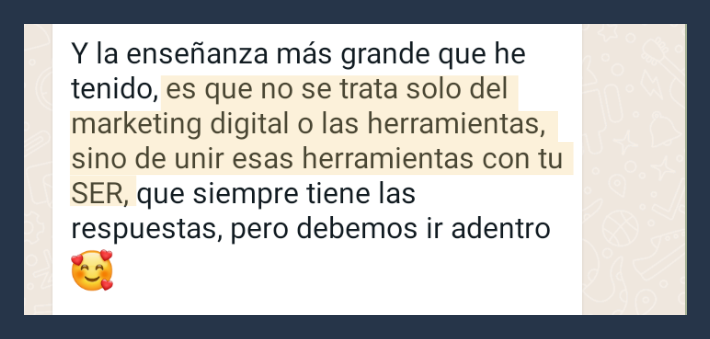
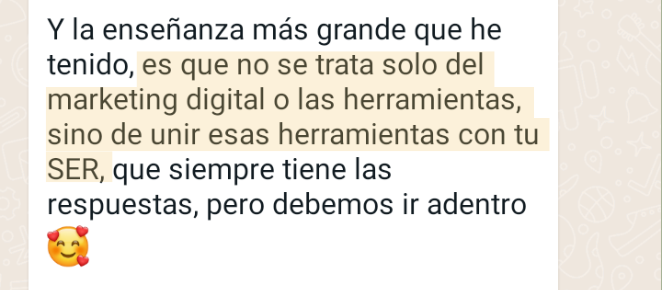
Ajustes de copy y diseño tras revisión de Mimi
Nuevo subtítulo del hero, bloque de dolor reescrito con rombos,
bullets de la promesa reestructurados, bios de Mimi y Ale ajustadas,
reorganización de testimonios entre las dos secciones, recorte del
pantallazo SER y frase de urgencia antes del CTA de la promesa.

diff --git a/index.html b/index.html
@@ -415,7 +415,7 @@
     <div class="hero-mark"><img src="imagens/icono.png" alt="Mujer Alquímica Digital"></div>
     <div class="hero-badge"><span class="pulse"></span> Masterclass en vivo · Gratis</div>
     <h1 class="reveal">Cómo dar <em>el primer paso en redes sociales</em> para mostrar lo que ya sabes hacer, sin esperar a sentirte lista</h1>
-    <p class="hero-sub reveal">Masterclass en vivo con Mimi y Ale <strong>para mujeres que tienen un negocio de bienestar y llevan meses sin mostrarlo</strong>. Por miedo a exponerse, o por no saber por dónde empezar.</p>
+    <p class="hero-sub reveal">Masterclass <strong>para mujeres con negocios de bienestar</strong> que llevan tiempo postergando la presentación de su servicio, ya sea por miedo a exponerse o por no saber por dónde empezar.</p>
 
     <form class="form-wrap reveal" id="form-hero" novalidate>
       <p class="form-wrap__title">Regístrate, es gratis</p>
@@ -457,9 +457,10 @@
 ═══════════════════════════════════════ -->
 <section id="pas">
   <div class="container-narrow">
-    <p class="reveal"><strong style="color:#fff;">Tienes algo que ofrecer al mundo y lo sabes.</strong> Pero cada vez que piensas en mostrarlo en redes, algo te frena.</p>
-    <p class="reveal"><strong style="color:#fff;">No sabes por dónde empezar.</strong> O sientes que primero necesitas la edición perfecta, el guion perfecto, la versión de ti que todavía no llegó.</p>
-    <p class="reveal">Mientras tanto el tiempo pasa y ese conocimiento sigue guardado, sin llegar a nadie.</p>
+    <p class="reveal"><span class="diamond" style="margin-right:.6rem;">◆</span>Abres Instagram, te quedas mirando la pantalla en blanco, y lo cierras sin publicar nada.</p>
+    <p class="reveal"><span class="diamond" style="margin-right:.6rem;">◆</span>Grabas el video, lo ves, lo borras. Y así llevas semanas.</p>
+    <p class="reveal"><span class="diamond" style="margin-right:.6rem;">◆</span>Tienes el caption escrito, el dedo sobre publicar, y algo en el cuerpo dice no todavía.</p>
+    <p class="reveal"><span class="diamond" style="margin-right:.6rem;">◆</span>Cada vez que piensas en aparecer en cámara, algo se aprieta adentro y lo dejas para mañana.</p>
     <p class="reveal" style="color:#fff;">En esta clase en vivo vamos a encontrar qué te está frenando de verdad.</p>
     <p class="reveal"><span style="color: var(--oro-lc);">Vas a salir con el primer paso concreto para</span> <strong style="color:#fff;">empezar a mostrarte en redes sociales sin esperar estar lista</strong>.</p>
   </div>
@@ -475,25 +476,18 @@
       <h2>Lo que viven las mujeres que trabajan con nosotras</h2>
     </div>
     <div class="testi-grid">
-      <article class="testi-card testi-card--quote reveal" aria-label="Testimonio de Sandra">
-        <div class="testi-person">
-          <div class="testi-avatar"><img src="Testimonios/sandra.png" alt="Sandra"></div>
-          <div>
-            <p class="testi-name">Sandra</p>
-            <span class="testi-role">Proceso Mujer Alquímica Digital</span>
-          </div>
-        </div>
-        <p>"Sostenía una imagen espiritual que no me pertenecía, desde el ego, paralizada, agobiada. Hoy entiendo que ser espiritual es habitar el cuerpo. Vi mis bloqueos con el dinero, trabajé mi energía femenina, y cerré high tickets por encima de lo que imaginaba. Me mudé frente al mar."</p>
+      <article class="testi-card reveal" aria-label="Testimonio de clienta">
+        <img src="Testimonios/testi-4-ale.png" alt="Testimonio: no se trata solo del marketing digital o las herramientas, sino de unir esas herramientas con tu ser." loading="lazy">
       </article>
-      <article class="testi-card testi-card--quote reveal" aria-label="Testimonio de Alejandra">
+      <article class="testi-card testi-card--quote reveal" aria-label="Testimonio de Luisa">
         <div class="testi-person">
-          <div class="testi-avatar"><img src="Testimonios/alejandra.png" alt="Alejandra"></div>
+          <div class="testi-avatar"><img src="Testimonios/Luisa.jpeg" alt="Luisa"></div>
           <div>
-            <p class="testi-name">Alejandra</p>
-            <span class="testi-role">Proceso Mujer Alquímica Digital</span>
+            <p class="testi-name">Luisa</p>
+            <span class="testi-role">Masterclass anterior</span>
           </div>
         </div>
-        <p>"Usaba herramientas ancestrales desde mi dualidad, no desde mi verdad. Quería brillar en la estrella de otra. Acepté mi propia vasija. Integré mi parte mental con mi espiritualidad. Recuperé mi libertad creativa, y empecé a seguirme a mí misma."</p>
+        <p>"Esto es una clase maravillosa, justo porque siempre tenemos la información por separado, y es difícil avanzar así. Una clase muy completa, justo desde el sentir."</p>
       </article>
     </div>
   </div>
@@ -509,18 +503,19 @@
     <div class="promesa-list">
       <div class="promesa-item">
         <span class="check">✓</span>
-        <p>Vas a identificar qué creencia o miedo específico te está frenando, para dejar de gastar energía en arreglar lo que no es el problema real.</p>
+        <p><strong>Vas a identificar qué es exactamente lo que te frena.</strong><br>No "el miedo a exponerte" en general. El bloqueo específico tuyo, el que aparece cuando abres la app y te quedas paralizada.</p>
       </div>
       <div class="promesa-item">
         <span class="check">✓</span>
-        <p>Vas a salir con un mapa de tus primeros pasos, hecho a tu manera. No una fórmula genérica que no se siente tuya.</p>
+        <p><strong>Vas a salir con tu primer paso concreto.</strong><br>No una lista de tareas genérica. Una acción real, tuya, que puedas hacer esta semana sin necesitar más preparación.</p>
       </div>
       <div class="promesa-item">
         <span class="check">✓</span>
-        <p>Vas a soltar la exigencia de la versión perfecta. Lo que tienes hoy ya alcanza para empezar.</p>
+        <p><strong>Vas a entender que lo que tienes hoy ya es suficiente para empezar.</strong><br>No cuando tengas mejor cámara, mejor edición o más seguridad. Con lo que eres y tienes ahora mismo.</p>
       </div>
     </div>
 
+    <p style="font-weight: 700; font-size: 1.05rem; color: var(--oro-lc); margin-bottom: 1.25rem;">Es gratis y en vivo. Pero los cupos son limitados. Separa el tuyo hoy.</p>
     <a href="#hero" class="btn">Quiero entrar a la clase</a>
     <div class="event-meta">
       <span><span class="diamond">◆</span> Miércoles 19 de agosto</span>
@@ -545,19 +540,6 @@
       <article class="testi-card reveal" aria-label="Testimonio de clienta">
         <img src="Testimonios/testi-6-ale.png" alt="Testimonio: las sesiones de claridad con Alejandra le permitieron abrir su mente al uso de la tecnología a favor de su servicio." loading="lazy">
       </article>
-      <article class="testi-card reveal" aria-label="Testimonio de clienta">
-        <img src="Testimonios/testi-4-ale.png" alt="Testimonio: no se trata solo del marketing digital o las herramientas, sino de unir esas herramientas con tu ser." loading="lazy">
-      </article>
-      <article class="testi-card testi-card--quote reveal" aria-label="Testimonio de Luisa">
-        <div class="testi-person">
-          <div class="testi-avatar"><img src="Testimonios/Luisa.jpeg" alt="Luisa"></div>
-          <div>
-            <p class="testi-name">Luisa</p>
-            <span class="testi-role">Masterclass anterior</span>
-          </div>
-        </div>
-        <p>"Esto es una clase maravillosa, justo porque siempre tenemos la información por separado, y es difícil avanzar así. Una clase muy completa, justo desde el sentir."</p>
-      </article>
     </div>
   </div>
 </section>
@@ -575,12 +557,12 @@
       <div class="somos-card reveal">
         <div class="somos-photo"><img src="imagens/mimi-frente.png" alt="Mimi, terapeuta somática y facilitadora de Mujer Alquímica Digital"></div>
         <h3 class="michelia">Mimi</h3>
-        <p>Terapeuta especializada en astrología, trabajo somático, sagrado femenino y procesos de transformación profunda. Acompaña a mujeres a reconectar con su cuerpo, su verdad y su relación con el dinero desde un lugar real de merecimiento. Su trabajo libera lo que ninguna estrategia puede tocar, el sistema nervioso que aprendió que recibir es peligroso.</p>
+        <p>Terapeuta especializada en astrología, trabajo somático, sagrado femenino y procesos de transformación profunda. Acompaña a mujeres a identificar y soltar lo que las paraliza frente a la pantalla. Mimi sabe que el problema no es no saber qué publicar. Es lo que pasa en el cuerpo justo antes de hacerlo.</p>
       </div>
       <div class="somos-card reveal">
         <div class="somos-photo"><img src="imagens/Ale-traje-negro.PNG" alt="Ale, estratega de marca y facilitadora de Mujer Alquímica Digital"></div>
         <h3 class="michelia">Ale</h3>
-        <p>Publicista y estratega creativa especializada en marca, comunicación y arquitectura de negocio digital. Ayuda a terapeutas, mentoras y emprendedoras del bienestar a encontrar su voz, estructurar su mensaje y construir un negocio que las represente auténticamente. Para ella el negocio es una extensión de quien eres, no hay estructura sostenible que no empiece desde adentro.</p>
+        <p>Publicista y estratega creativa especializada en marca, comunicación y arquitectura de negocio digital. Acompaña a emprendedoras del bienestar a encontrar su voz, estructurar su mensaje y construir un negocio que las represente auténticamente. Para ella el negocio es una extensión de quien eres, no hay estructura sostenible que no empiece desde adentro.</p>
       </div>
     </div>
     <div class="somos-quote reveal">
